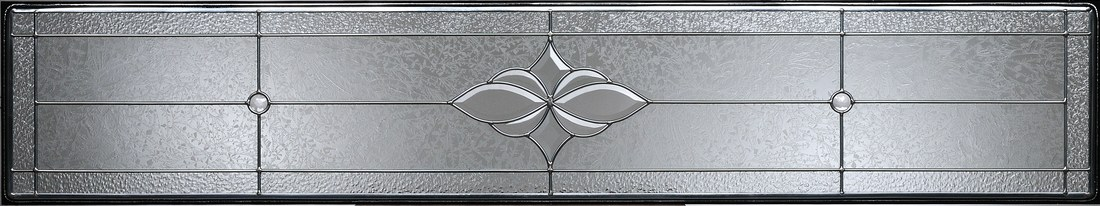
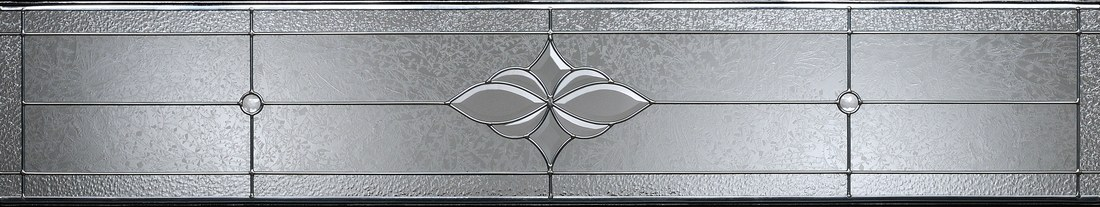
Niagara art fills the glass edge-to-edge; frost-border uses real texture
- Niagara assets auto-cropped to the glass content (the source TIFs
  carry white margins that rendered as a white border); asset URLs
  stamped ?v=2 so cached bordered copies refresh
- 'Sandblast - 1in clear border' composites the real frost texture
  inset over clear glass with the border drawn true - sidelites,
  rectangular transoms and tiles. v17 stamp.

diff --git a/doors.js b/doors.js
@@ -597,7 +597,7 @@ function glassPanel(x, y, w, h, tint, uid, mullions) {
   // real product art for styles that have it (tall panel art for sidelites,
   // a wide/tileable crop for transoms and thumbnails)
   const art = {
-    niagara: { sl: ['images/glass/niagara-sl.jpg', 'none'], wide: ['images/glass/niagara-tr.jpg', 'xMidYMid slice'] },
+    niagara: { sl: ['images/glass/niagara-sl.jpg?v=2', 'none'], wide: ['images/glass/niagara-tr.jpg?v=2', 'xMidYMid slice'] },
     etch:    { sl: ['images/glass/sandblast-sl.jpg', 'none'], wide: ['images/glass/sandblast-tr.jpg', 'xMidYMid slice'] },
   }[tint];
   if (art) {
@@ -605,6 +605,17 @@ function glassPanel(x, y, w, h, tint, uid, mullions) {
     const cid = `ng-${uid}-${Math.round(x)}-${Math.round(y)}`;
     return `<clipPath id="${cid}"><rect x="${x}" y="${y}" width="${w}" height="${h}"/></clipPath>
       <g clip-path="url(#${cid})"><image href="${pick[0]}" x="${x}" y="${y}" width="${w}" height="${h}" preserveAspectRatio="${pick[1]}"/></g>
+      <rect x="${x+1.5}" y="${y+1.5}" width="${w-3}" height="${h-3}" fill="none" stroke="rgba(255,255,255,.32)" stroke-width="1"/>
+      <rect x="${x}" y="${y}" width="${w}" height="${h}" fill="none" stroke="rgba(0,0,0,.3)" stroke-width="2"/>`;
+  }
+  // sandblast with a 1" clear border: real frost texture inset over clear glass
+  if (tint === 'frost-border') {
+    const b = Math.min(w, h) < 24 ? 3 : 6;   // ≈1" at unit scale
+    const cid = `fb-${uid}-${Math.round(x)}-${Math.round(y)}`;
+    return `<rect x="${x}" y="${y}" width="${w}" height="${h}" fill="url(#gl-${uid})"/>
+      <clipPath id="${cid}"><rect x="${x+b}" y="${y+b}" width="${w-2*b}" height="${h-2*b}"/></clipPath>
+      <g clip-path="url(#${cid})"><image href="images/glass/sandblast-tr.jpg" x="${x+b}" y="${y+b}" width="${w-2*b}" height="${h-2*b}" preserveAspectRatio="xMidYMid slice"/></g>
+      <rect x="${x+b}" y="${y+b}" width="${w-2*b}" height="${h-2*b}" fill="none" stroke="rgba(0,0,0,.22)" stroke-width="1"/>
       <rect x="${x+1.5}" y="${y+1.5}" width="${w-3}" height="${h-3}" fill="none" stroke="rgba(255,255,255,.32)" stroke-width="1"/>
       <rect x="${x}" y="${y}" width="${w}" height="${h}" fill="none" stroke="rgba(0,0,0,.3)" stroke-width="2"/>`;
   }
@@ -939,7 +950,7 @@ function unitSVG(door, sel, opts) {
     if (tr.arch) {
       // true semi-circle transom: half-circle spanning the framed width
       frames += `<path d="M${tx0} ${trH} A ${trW/2} ${trH} 0 0 1 ${tx0 + trW} ${trH} Z" fill="${frameFill}" stroke="rgba(0,0,0,.14)" stroke-width="2"/>`;
-      const trSemiArt = { niagara: ['images/glass/niagara-semi.jpg', 'none'],
+      const trSemiArt = { niagara: ['images/glass/niagara-semi.jpg?v=2', 'none'],
         etch: ['images/glass/sandblast-tr.jpg', 'xMidYMid slice'] }[trTint || 'clear'];
       if (trSemiArt) {
         frames += `<clipPath id="trg-${uid}"><path d="M${tx0 + 12} ${trH} A ${trW/2 - 12} ${trH - 11} 0 0 1 ${tx0 + trW - 12} ${trH} Z"/></clipPath>
@@ -951,7 +962,7 @@ function unitSVG(door, sel, opts) {
     } else if (tr.seg) {
       // segmental: shallow-rise curved top over a low rectangle
       frames += `<path d="M${tx0} ${trH} L${tx0} 42 Q${tx0 + trW/2} -12 ${tx0 + trW} 42 L${tx0 + trW} ${trH} Z" fill="${frameFill}" stroke="rgba(0,0,0,.14)" stroke-width="2"/>`;
-      const trSegArt = { niagara: ['images/glass/niagara-tr.jpg', 'none'],
+      const trSegArt = { niagara: ['images/glass/niagara-tr.jpg?v=2', 'none'],
         etch: ['images/glass/sandblast-tr.jpg', 'xMidYMid slice'] }[trTint || 'clear'];
       if (trSegArt) {
         frames += `<clipPath id="trg-${uid}"><path d="M${tx0 + 10} ${trH - 8} L${tx0 + 10} 46 Q${tx0 + trW/2} 0 ${tx0 + trW - 10} 46 L${tx0 + trW - 10} ${trH - 8} Z"/></clipPath>

diff --git a/Configurator.html b/Configurator.html
@@ -303,10 +303,10 @@
   </footer>
 
   <!-- bump ?v= on every deploy that touches these files — busts the Pages cache -->
-  <script src="doors.js?v=16"></script>
-  <script src="visualizer.js?v=16"></script>
-  <script src="cart.js?v=16"></script>
-  <script src="builds.js?v=16"></script>
-  <script src="configurator.js?v=16"></script>
+  <script src="doors.js?v=17"></script>
+  <script src="visualizer.js?v=17"></script>
+  <script src="cart.js?v=17"></script>
+  <script src="builds.js?v=17"></script>
+  <script src="configurator.js?v=17"></script>
 </body>
 </html>
